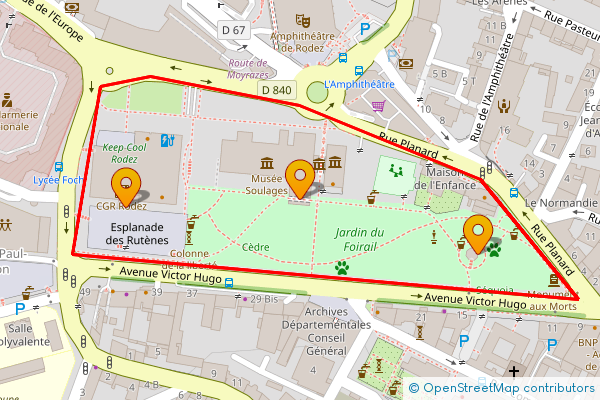
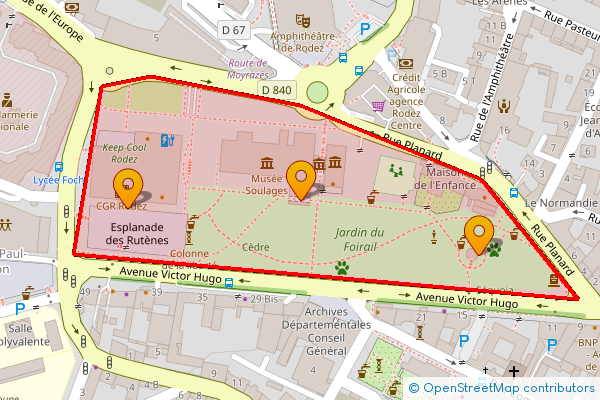
update README sample

diff --git a/README.md b/README.md
@@ -27,7 +27,7 @@ Generate OpenStreetMap static image with marker and line :
 ```php
 use \DantSu\OpenStreetMapStaticAPI\OpenStreetMap;
 use \DantSu\OpenStreetMapStaticAPI\LatLng;
-use \DantSu\OpenStreetMapStaticAPI\Line;
+use \DantSu\OpenStreetMapStaticAPI\Polygon;
 use \DantSu\OpenStreetMapStaticAPI\Markers;
 
 \header('Content-type: image/png');
@@ -40,14 +40,13 @@ use \DantSu\OpenStreetMapStaticAPI\Markers;
             ->addMarker(new LatLng(44.351873, 2.566250))
     )
     ->addDraw(
-        (new Line('FF0000', 2))
+        (new Polygon('FF0000', 2, 'FF0000DD'))
             ->addPoint(new LatLng(44.351172, 2.571092))
             ->addPoint(new LatLng(44.352097, 2.570045))
             ->addPoint(new LatLng(44.352665, 2.568107))
             ->addPoint(new LatLng(44.352887, 2.566503))
             ->addPoint(new LatLng(44.352806, 2.565972))
             ->addPoint(new LatLng(44.351517, 2.565672))
-            ->addPoint(new LatLng(44.351172, 2.571092))
     )
     ->getImage()
     ->displayPNG();
